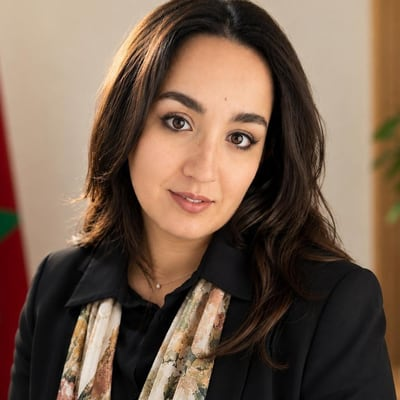
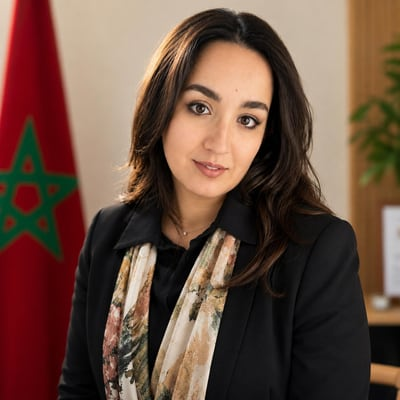
Tribune Abriti : photo haute definition, og:image 1200x630, date du jour sur la carte /tribunes

diff --git a/article-tribune-abriti-domaine-public-hydraulique.html b/article-tribune-abriti-domaine-public-hydraulique.html
@@ -24,8 +24,8 @@
 <meta property="og:title" content="Utiliser ou exploiter l’eau : bien plus qu’une question de mots"/>
 <meta property="og:description" content="Au Maroc, l’eau constitue une ressource stratégique dont l’utilisation est encadrée par un dispositif juridique fondé sur le principe de la domanialité publique."/>
 <meta property="og:url" content="https://neybras-magazine.com/article-tribune-abriti-domaine-public-hydraulique"/>
-<meta property="og:image" content="https://neybras-magazine.com/images/og-neybras-default.png"/>
-<meta property="og:image:alt" content="Neybras Magazine — Le droit et la finance qui éclairent les décisions"/>
+<meta property="og:image" content="https://neybras-magazine.com/images/youssra-abriti-og.jpg"/>
+<meta property="og:image:alt" content="Youssra Abriti, Chargée de Coopération Internationale"/>
 <meta property="og:image:width" content="1200"/>
 <meta property="og:image:height" content="630"/>
 <meta property="og:locale" content="fr_MA"/>
@@ -40,7 +40,7 @@
 <meta name="twitter:card" content="summary_large_image"/>
 <meta name="twitter:title" content="Utiliser ou exploiter l’eau : bien plus qu’une question de mots"/>
 <meta name="twitter:description" content="Au Maroc, l’eau constitue une ressource stratégique dont l’utilisation est encadrée par un dispositif juridique fondé sur le principe de la domanialité publique."/>
-<meta name="twitter:image" content="https://neybras-magazine.com/images/og-neybras-default.png"/>
+<meta name="twitter:image" content="https://neybras-magazine.com/images/youssra-abriti-og.jpg"/>
 
 <link rel="canonical" href="https://neybras-magazine.com/article-tribune-abriti-domaine-public-hydraulique"/>
 
@@ -54,7 +54,7 @@
       "@id": "https://neybras-magazine.com/article-tribune-abriti-domaine-public-hydraulique#article",
       "headline": "Utiliser ou exploiter l’eau : bien plus qu’une question de mots",
       "description": "Au Maroc, l’eau constitue une ressource stratégique dont l’utilisation est encadrée par un dispositif juridique fondé sur le principe de la domanialité publique.",
-      "image": "https://neybras-magazine.com/images/og-neybras-default.png",
+      "image": "https://neybras-magazine.com/images/youssra-abriti-og.jpg",
       "datePublished": "2026-10-02T08:00:00+01:00",
       "dateModified": "2026-10-02T08:00:00+01:00",
       "inLanguage": "fr-MA",

diff --git a/tribunes.html b/tribunes.html
@@ -393,7 +393,7 @@ footer{background:var(--bn2);border-top:3px solid rgba(184,150,90,.3);padding:48
             <h3>Utiliser ou exploiter l’eau : bien plus qu’une question de mots</h3>
             <p class="tcard-quote">« Entre utilisation et exploitation, la question est finalement moins celle des mots que celle de leur portée concrète dans la gestion durable de l’eau. »</p>
             <div class="tcard-foot">
-              <span class="tcard-date"></span>
+              <span class="tcard-date">2 octobre 2026</span>
               <a href="article-tribune-abriti-domaine-public-hydraulique" class="tcard-read">Lire <i class="fas fa-arrow-right"></i></a>
             </div>
           </div>
